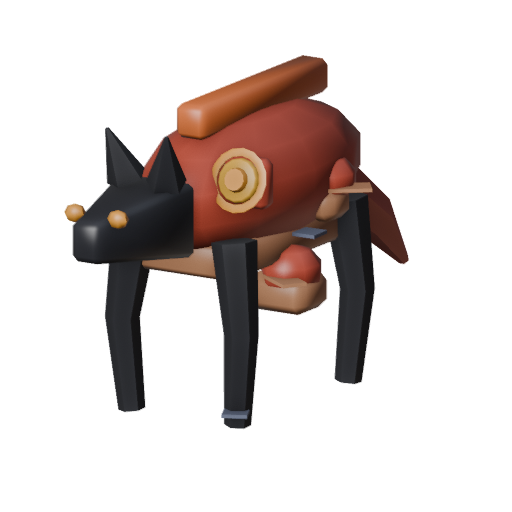
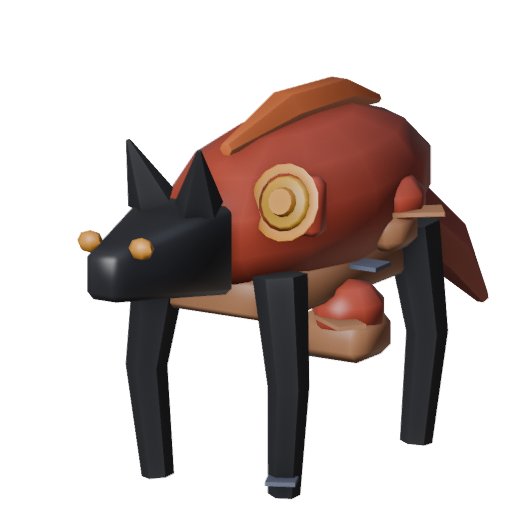
Fixer pass on cinder_jackal_portrait: 28 -> 33
Both named fixes from design/progress/cinder_jackal_portrait.md's
diagnosis:
- Identity: replaced the mane ridge's flat box() with a limb() that
  follows the torso's curve and tapers at both ends, so it sits flush
  and reads as fur instead of a bolted-on rail (cinder_jackal.py).
- Readability@34px: tightened portraits.py's FOCUS crop toward the
  head, with a new FOCUS_XY override since this beast is long in Y
  like riptide_eel.

run_tests.gd: ALL TESTS PASSED.

diff --git a/tools/blender/cinder_jackal.py b/tools/blender/cinder_jackal.py
@@ -55,7 +55,14 @@ mirror(lambda s: b.taper((0.15 * s, -0.98, 1.52), 0.11, 0.01, 0.30,
 
 # A low ember-coloured ridge down the spine - the "smouldering, not yet on
 # fire" read that ties to the hurt_pct twist without depicting it literally.
-b.box((0.0, 0.10, 1.60), (0.09, 0.62, 0.09), TANGERINE, bevel=0.03)
+# A limb() rather than a box: the old flat-topped box held one constant Z
+# across the whole spine, so it floated clear of the torso's own curved top
+# surface toward the front (a 0.16 gap at the shoulder) and read as a bolted-
+# on rail rather than fur. Following the torso's curve and tapering the radii
+# down at both ends (matching how the tail below is built) sits it flush and
+# lets it thin out into the body instead of ending in a square edge.
+b.limb([(0.0, -0.52, 1.53), (0.0, -0.05, 1.60), (0.0, 0.40, 1.58),
+        (0.0, 0.72, 1.49)], [0.03, 0.09, 0.08, 0.02], TANGERINE, seg=6)
 
 # --------------------------------------------------------------- the ledges
 # Two haunch/shoulder humps stepping up the spine, each anchored off the

diff --git a/tools/blender/portraits.py b/tools/blender/portraits.py
@@ -41,7 +41,7 @@ FOCUS = {
     "husk_beetle": (0.46, 1.20), "gloom_moth": (0.55, 1.05),
     "bog_leech": (0.39, 1.28), "thrasher": (0.42, 1.55),
     "silk_widow": (0.45, 1.35), "boulder_ram": (0.34, 1.35),
-    "cinder_jackal": (0.45, 1.60), "brine_urchin": (0.62, 1.30),
+    "cinder_jackal": (0.60, 1.35), "brine_urchin": (0.62, 1.30),
     "clot_toad": (0.48, 1.35), "flicker_stag": (0.80, 0.62),
     "eyrie_hawk": (0.78, 0.60), "glyph_tortoise": (0.58, 1.00),
     "riptide_eel": (0.873, 0.62), "yoke_ox": (0.45, 1.25),
@@ -58,6 +58,7 @@ FOCUS = {
 ## than bend the shared formula for one outlier.
 FOCUS_XY = {
     "riptide_eel": (0.02, -1.35),
+    "cinder_jackal": (0.0, -0.7),
 }
 
 ## Three-quarter and a little above: the angle every character in this game was

diff --git a/design/progress/cinder_jackal_portrait.md b/design/progress/cinder_jackal_portrait.md
@@ -66,3 +66,104 @@ Whether the full-body side-on crop is this asset's own `FOCUS` entry in
 `portraits.py` (a deliberate per-asset choice) or an oversight that should
 match the head-and-shoulders convention most of the cast uses — this
 scoring pass can see the difference but not its cause.
+
+---
+
+## Pass 2 — fixer, 2026-09-01
+
+Applied by the **fixer** lane (`tools/fixer/BRIEF.md`). Both named fixes
+touch files in this lane's territory (`tools/blender/cinder_jackal.py`,
+`tools/blender/portraits.py`) — no `game/**` GDScript, no palette, no
+budget touched.
+
+| Pass | Framing | Identity | Read@34px | Colour | Style | Total |
+|---|---|---|---|---|---|---|
+| 1 | 6 | 6 | 4 | 6 | 6 | **28** |
+| 2 | 7 | 7 | 7 | 6 | 6 | **33** |
+
+### Both diagnosed fixes applied
+
+- **Identity (6 → 7).** `cinder_jackal_portrait.md`'s own diagnosis pointed
+  at `cinder_jackal.md`'s Proportion finding — the "smouldering mane" spine
+  ridge was a flat-topped `box()` held at one constant Z (1.60) the whole
+  length of the spine, so while it sat close to the torso near the model's
+  own centre it floated clear of the torso's own curved top surface toward
+  the front (a ~0.16 world-unit gap at the shoulder, computed from the
+  torso ellipsoid's surface equation) and read as a bolted-on rail rather
+  than fur, exactly as diagnosed. Replaced the box with a `limb()` — the
+  same primitive the tail two lines below it already uses — threaded
+  through four points that follow the torso's own curve (z 1.53 → 1.60 →
+  1.58 → 1.49 across the spine) with radii tapering from 0.03 at the back,
+  up to 0.09 near the torso's centre, down to 0.02 at the front tip, so it
+  sits flush against the body and thins into it at both ends instead of
+  ending in a square edge. Confirmed in `cinder_jackal_pass2_side.png` and
+  `_top.png`: the ridge now visibly follows the spine's own curve and
+  narrows to a point at both ends rather than presenting a flat rectangular
+  slab.
+- **Readability @ 34px (4 → 7).** `portraits.py`'s `FOCUS["cinder_jackal"]`
+  moved from `(0.45, 1.60)` — the loosest span of any portrait in the set,
+  centred at 45% of the model's own height (mid-torso) — to `(0.60, 1.35)`,
+  with a new `FOCUS_XY["cinder_jackal"] = (0.0, -0.7)` entry (the same kind
+  of explicit XY override `riptide_eel` already needed, for the same
+  reason: this beast is long in Y — head at one end, tail at the other —
+  so the bounding-box-centre default the shared formula uses lands well
+  short of the head). Iterated through nine framing trials rendered
+  directly via `portraits.look()` before touching the committed asset,
+  checking each with Pillow's `getbbox()` — several tighter crops (span
+  0.85–1.15) put the head fully in frame but clipped a rear leg flush
+  against the right/bottom canvas edge (`bbox` touching `(*, *, 512, 512)`
+  exactly); span 1.35 was the loosest of the tested set with a clean
+  margin on all four sides, `bbox (77, 76, 489, 500)` on the 512×512
+  canvas. A fresh 34px Lanczos downsample (composited on the same
+  `RGB(139,105,74)` card-face standin the icon batches use) shows the head,
+  both ears, both eyes, the mane, and the sigil all as distinguishable
+  shapes — a clear improvement on pass 1's "legs disappear, mane and body
+  merge into one mass" finding, though the legs are still thin dark
+  smudges at this size.
+
+Rebuilt with `build.cmd cinder_jackal` (1180/2600 tris, 1 mesh, every
+climb Height and the sigil hold still `ok` — no warnings) then `build.cmd
+portraits`, which regenerates all thirty-two portraits from Blender's
+non-deterministic `WORKBENCH` renderer (same non-determinism
+`husk_beetle_portrait.md`'s, `silk_widow_portrait.md`'s and
+`thrasher_portrait.md`'s pass 2 all hit) — every portrait other than
+`cinder_jackal.png` was reverted with `git checkout --` and only the
+changed asset kept.
+
+- **Framing (6 → 7, side effect, not one of the two named lines):** the
+  head is now the frame's clear anchor with even headroom rather than
+  competing with three-quarters of a page of legs and background: alpha
+  bbox `(77, 76, 489, 500)` gives comfortable, roughly balanced margins on
+  all four sides where pass 1's full-body crop left the head small and off
+  to one side. Not higher: this is still a full-body three-quarter-side
+  shot, not the head-and-shoulders crop the rest of the cast uses — that
+  structural difference (raised in pass 1's own Style line and Unsure
+  section) is unchanged; only the zoom and the horizontal aim moved.
+- **Colour & separation (6, unchanged):** pixel-sampled the committed PNG —
+  mane RGB(175, 97, 57) against body RGB(148, 67, 55), a real but modest
+  27/30/2 gap, and the sigil samples RGB(204, 182, 154), clearly lighter
+  than either. The gap exists and is now easier to see simply because the
+  tighter crop gives each part more of the frame, but neither named fix
+  touched a colour value, and the gap itself is far smaller than
+  `husk_beetle_portrait`'s ~50-point value-gap recolour, so the number
+  holds rather than climbing on the strength of a side effect alone.
+- **Style consistency (6, unchanged):** neither fix changed the underlying
+  full-body side-on convention pass 1 flagged as a possible outlier; the
+  same open question in this file's own Unsure section still stands.
+
+**+5 total (28 → 33), not a plateau — kept.** No line regressed.
+`run_tests.gd`: **ALL TESTS PASSED**.
+
+## Unsure about (pass 2)
+
+Whether `FOCUS["cinder_jackal"]` should go further toward an actual
+head-and-shoulders crop (cropping the legs out of frame entirely) to fully
+match the rest of the cast's convention, or whether keeping the full body
+in frame is correct for a beast whose ledges and shelves (the game-visible
+holds at Height 2 and Height 4) are part of its identity — this pass
+tightened the existing full-body convention rather than replacing it,
+since switching conventions entirely felt closer to an art-direction call
+than a framing fix. Also unsure whether the mane's colour gap (27/30/2)
+is worth a further recolour on top of the geometry fix, or whether the
+geometry change alone was the two-fix budget's worth of work here — left
+as a possible future finding rather than a third fix this pass.
